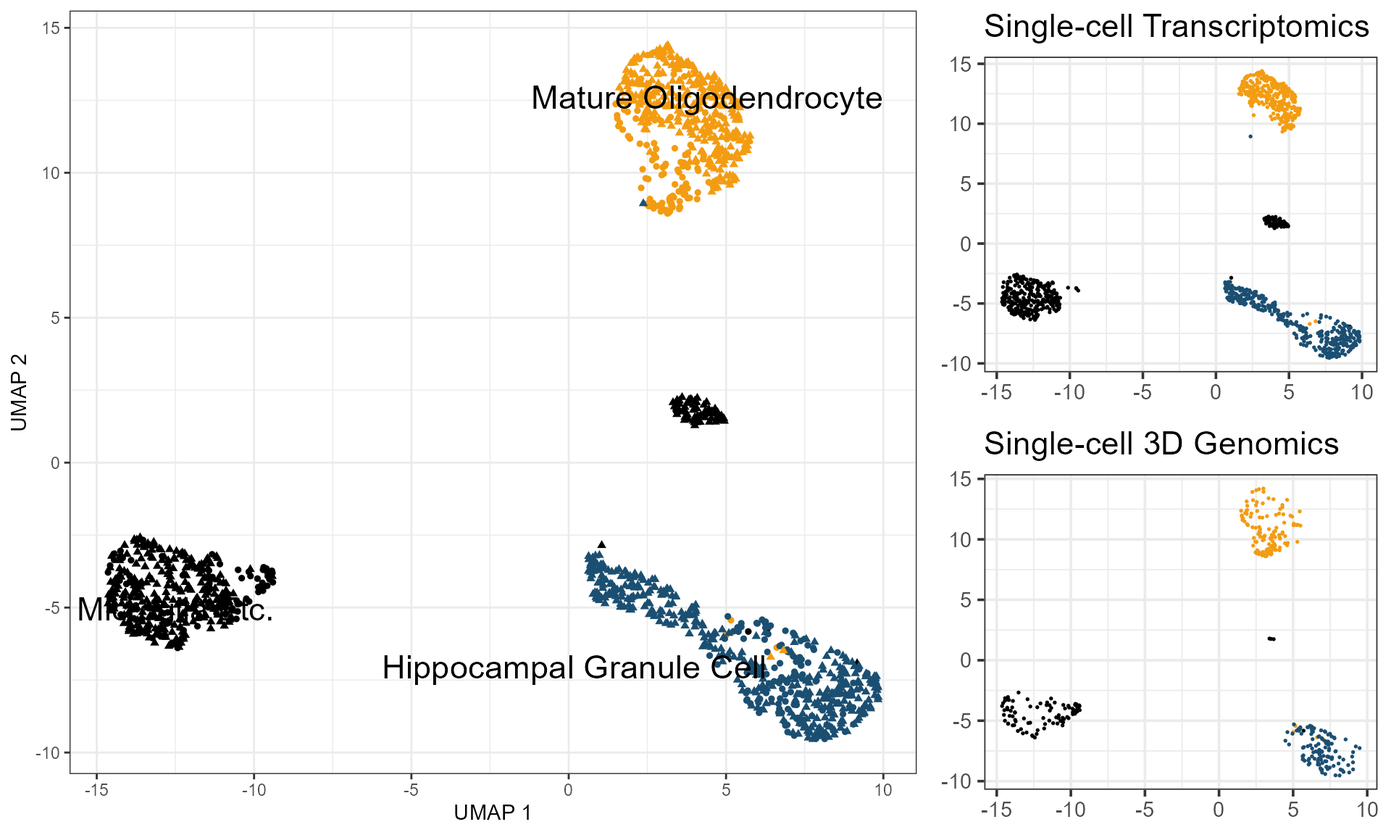
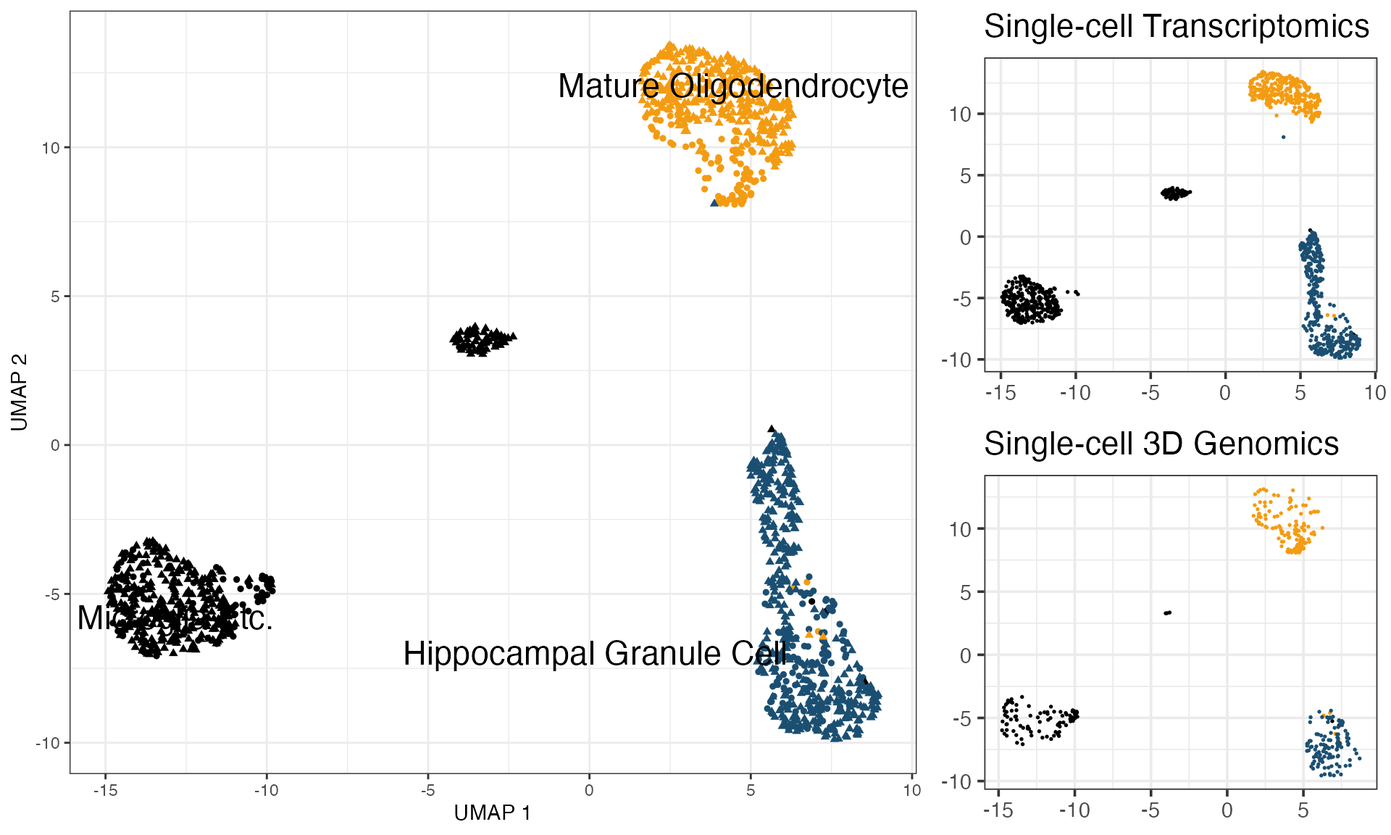
Add files via upload

diff --git a/docs/articles/scGAD_tutorial.html b/docs/articles/scGAD_tutorial.html
@@ -78,7 +78,7 @@
 
       
 
-      </header><script src="scGAD_tutorial_files/header-attrs-2.10/header-attrs.js"></script><div class="row">
+      </header><script src="scGAD_tutorial_files/header-attrs-2.11/header-attrs.js"></script><div class="row">
   <div class="col-md-9 contents">
     <div class="page-header toc-ignore">
       <h1 data-toc-skip>scGAD-tutorial</h1>
@@ -156,9 +156,7 @@ chr1    20000   40000   2       cell_3</code></pre>
 <div class="sourceCode" id="cb3"><pre class="downlit sourceCode r">
 <code class="sourceCode R"><span class="kw"><a href="https://rdrr.io/r/base/library.html">library</a></span><span class="op">(</span><span class="va">BandNorm</span><span class="op">)</span>
 <span class="co">#&gt; Loading required package: ggplot2</span>
-<span class="co">#&gt; Warning: package 'ggplot2' was built under R version 4.0.5</span>
 <span class="co">#&gt; Loading required package: dplyr</span>
-<span class="co">#&gt; Warning: package 'dplyr' was built under R version 4.0.5</span>
 <span class="co">#&gt; </span>
 <span class="co">#&gt; Attaching package: 'dplyr'</span>
 <span class="co">#&gt; The following objects are masked from 'package:stats':</span>
@@ -168,53 +166,36 @@ chr1    20000   40000   2       cell_3</code></pre>
 <span class="co">#&gt; </span>
 <span class="co">#&gt;     intersect, setdiff, setequal, union</span>
 <span class="co">#&gt; Loading required package: data.table</span>
-<span class="co">#&gt; Warning: package 'data.table' was built under R version 4.0.4</span>
 <span class="co">#&gt; </span>
 <span class="co">#&gt; Attaching package: 'data.table'</span>
 <span class="co">#&gt; The following objects are masked from 'package:dplyr':</span>
 <span class="co">#&gt; </span>
 <span class="co">#&gt;     between, first, last</span>
 <span class="co">#&gt; Loading required package: Rtsne</span>
-<span class="co">#&gt; Warning: package 'Rtsne' was built under R version 4.0.3</span>
 <span class="co">#&gt; Loading required package: umap</span>
-<span class="co">#&gt; Warning: package 'umap' was built under R version 4.0.3</span>
 <span class="co">#&gt; Loading required package: progress</span>
-<span class="co">#&gt; Warning: package 'progress' was built under R version 4.0.4</span>
 <span class="co">#&gt; Loading required package: harmony</span>
 <span class="co">#&gt; Loading required package: Rcpp</span>
-<span class="co">#&gt; Warning: package 'Rcpp' was built under R version 4.0.5</span>
 <span class="co">#&gt; Loading required package: Matrix</span>
-<span class="co">#&gt; Warning: package 'Matrix' was built under R version 4.0.5</span>
 <span class="co">#&gt; Loading required package: gmodels</span>
-<span class="co">#&gt; Warning: package 'gmodels' was built under R version 4.0.4</span>
 <span class="co">#&gt; Loading required package: doParallel</span>
-<span class="co">#&gt; Warning: package 'doParallel' was built under R version 4.0.3</span>
 <span class="co">#&gt; Loading required package: foreach</span>
-<span class="co">#&gt; Warning: package 'foreach' was built under R version 4.0.3</span>
 <span class="co">#&gt; Loading required package: iterators</span>
-<span class="co">#&gt; Warning: package 'iterators' was built under R version 4.0.3</span>
 <span class="co">#&gt; Loading required package: parallel</span>
 <span class="co">#&gt; Loading required package: matrixStats</span>
-<span class="co">#&gt; Warning: package 'matrixStats' was built under R version 4.0.3</span>
 <span class="co">#&gt; </span>
 <span class="co">#&gt; Attaching package: 'matrixStats'</span>
 <span class="co">#&gt; The following object is masked from 'package:dplyr':</span>
 <span class="co">#&gt; </span>
 <span class="co">#&gt;     count</span>
 <span class="co">#&gt; Loading required package: Seurat</span>
-<span class="co">#&gt; Warning: package 'Seurat' was built under R version 4.0.5</span>
 <span class="co">#&gt; Attaching SeuratObject</span>
 <span class="co">#&gt; Loading required package: strawr</span>
-<span class="co">#&gt; Warning: package 'strawr' was built under R version 4.0.5</span>
 <span class="co">#&gt; Loading required package: rmarkdown</span>
-<span class="co">#&gt; Warning: package 'rmarkdown' was built under R version 4.0.5</span>
 <span class="co">#&gt; Loading required package: viridis</span>
-<span class="co">#&gt; Warning: package 'viridis' was built under R version 4.0.5</span>
 <span class="co">#&gt; Loading required package: viridisLite</span>
-<span class="co">#&gt; Warning: package 'viridisLite' was built under R version 4.0.5</span>
 <span class="kw"><a href="https://rdrr.io/r/base/library.html">library</a></span><span class="op">(</span><span class="va"><a href="https://github.com/jeroen/curl">curl</a></span><span class="op">)</span>
-<span class="co">#&gt; Warning: package 'curl' was built under R version 4.0.5</span>
-<span class="co">#&gt; Using libcurl 7.64.1 with Schannel</span>
+<span class="co">#&gt; Using libcurl 7.77.0 with LibreSSL/2.8.3</span>
 <span class="va">h</span> <span class="op">=</span> <span class="fu"><a href="https://rdrr.io/pkg/curl/man/handle.html">new_handle</a></span><span class="op">(</span>dirlistonly<span class="op">=</span><span class="cn">TRUE</span><span class="op">)</span>
 <span class="va">con</span> <span class="op">=</span> <span class="fu"><a href="https://rdrr.io/pkg/curl/man/curl.html">curl</a></span><span class="op">(</span><span class="st">"http://ftp.cs.wisc.edu/pub/users/kelesgroup/siqi/scGAD/scGADExample.rda"</span>, <span class="st">"r"</span>, <span class="va">h</span><span class="op">)</span>
 <span class="fu"><a href="https://rdrr.io/r/base/load.html">load</a></span><span class="op">(</span><span class="va">con</span><span class="op">)</span>
@@ -238,22 +219,23 @@ Rgs20   -0.14     -1.25     0.16   ... ...</code></pre>
 <div id="visualizion-of-the-lower-dimensional-representations-of-scgad-scores" class="section level3">
 <h3 class="hasAnchor">
 <a href="#visualizion-of-the-lower-dimensional-representations-of-scgad-scores" class="anchor"></a>1.5 Visualizion of the lower-dimensional representations of scGAD scores</h3>
-<p>Cell types separation can be visualized using PCA or t-SNE or UMAP. Showing below is the PCA dimension reduction of scGAD scores, and the first two principal components can nicely separate the three major cell types.</p>
+<p>Cell types separation can be visualized using PCA or t-SNE or UMAP. Showing below is the PCA dimension reduction of scGAD scores, and we input the first three principal components into UMAP, and UMAP plot can clearly separate the three cell types. (Note that in this situation, the cell types are very distinct, so we can only use three PCs. In reality, normally we should use a lot more PCs, for example fifteen to thirty.)</p>
 <div class="sourceCode" id="cb6"><pre class="downlit sourceCode r">
 <code class="sourceCode R"><span class="kw"><a href="https://rdrr.io/r/base/library.html">library</a></span><span class="op">(</span><span class="va"><a href="https://ggplot2.tidyverse.org">ggplot2</a></span><span class="op">)</span>
-
+<span class="kw"><a href="https://rdrr.io/r/base/library.html">library</a></span><span class="op">(</span><span class="va"><a href="https://github.com/tkonopka/umap">umap</a></span><span class="op">)</span>
 <span class="va">summary</span> <span class="op">=</span> <span class="va">summary</span><span class="op">[</span><span class="fu"><a href="https://rdrr.io/r/base/match.html">match</a></span><span class="op">(</span><span class="fu"><a href="https://rdrr.io/r/base/colnames.html">colnames</a></span><span class="op">(</span><span class="va">gad_score</span><span class="op">)</span>, <span class="va">summary</span><span class="op">$</span><span class="va">cell</span><span class="op">)</span>, <span class="op">]</span>
-<span class="va">gadPCA</span> <span class="op">=</span> <span class="fu"><a href="https://rdrr.io/r/stats/prcomp.html">prcomp</a></span><span class="op">(</span><span class="va">gad_score</span><span class="op">)</span><span class="op">$</span><span class="va">rotation</span><span class="op">[</span>, <span class="fl">1</span><span class="op">:</span><span class="fl">15</span><span class="op">]</span>
-<span class="va">gadPCA</span> <span class="op">=</span> <span class="fu"><a href="https://rdrr.io/r/base/data.frame.html">data.frame</a></span><span class="op">(</span><span class="va">gadPCA</span>, cellTypes <span class="op">=</span> <span class="va">summary</span><span class="op">$</span><span class="va">`cell-type cluster`</span><span class="op">)</span>
-
-<span class="fu"><a href="https://ggplot2.tidyverse.org/reference/ggplot.html">ggplot</a></span><span class="op">(</span><span class="va">gadPCA</span>, <span class="fu"><a href="https://ggplot2.tidyverse.org/reference/aes.html">aes</a></span><span class="op">(</span>x <span class="op">=</span> <span class="va">PC1</span>, y <span class="op">=</span> <span class="va">PC2</span>, col <span class="op">=</span> <span class="va">cellTypes</span><span class="op">)</span><span class="op">)</span> <span class="op">+</span> 
+<span class="va">gadPCA</span> <span class="op">=</span> <span class="fu"><a href="https://rdrr.io/r/stats/prcomp.html">prcomp</a></span><span class="op">(</span><span class="va">gad_score</span><span class="op">)</span><span class="op">$</span><span class="va">rotation</span><span class="op">[</span>, <span class="fl">1</span><span class="op">:</span><span class="fl">3</span><span class="op">]</span>
+<span class="va">gadUMAP</span> <span class="op">=</span> <span class="fu"><a href="https://rdrr.io/pkg/umap/man/umap.html">umap</a></span><span class="op">(</span><span class="va">gadPCA</span><span class="op">)</span>
+<span class="va">gadUMAP</span> <span class="op">=</span> <span class="fu"><a href="https://rdrr.io/r/base/data.frame.html">data.frame</a></span><span class="op">(</span><span class="va">gadUMAP</span><span class="op">$</span><span class="va">layout</span>, cellTypes <span class="op">=</span> <span class="va">summary</span><span class="op">$</span><span class="va">`cell-type cluster`</span><span class="op">)</span>
+<span class="fu"><a href="https://rdrr.io/r/base/colnames.html">colnames</a></span><span class="op">(</span><span class="va">gadUMAP</span><span class="op">)</span> <span class="op">=</span> <span class="fu"><a href="https://rdrr.io/r/base/c.html">c</a></span><span class="op">(</span><span class="st">"UMAP1"</span>, <span class="st">"UMAP2"</span>, <span class="st">"cellTypes"</span><span class="op">)</span>
+<span class="fu"><a href="https://ggplot2.tidyverse.org/reference/ggplot.html">ggplot</a></span><span class="op">(</span><span class="va">gadUMAP</span>, <span class="fu"><a href="https://ggplot2.tidyverse.org/reference/aes.html">aes</a></span><span class="op">(</span>x <span class="op">=</span> <span class="va">UMAP1</span>, y <span class="op">=</span> <span class="va">UMAP2</span>, col <span class="op">=</span> <span class="va">cellTypes</span><span class="op">)</span><span class="op">)</span> <span class="op">+</span> 
     <span class="fu"><a href="https://ggplot2.tidyverse.org/reference/geom_point.html">geom_point</a></span><span class="op">(</span><span class="op">)</span> <span class="op">+</span> 
     <span class="fu"><a href="https://ggplot2.tidyverse.org/reference/ggtheme.html">theme_bw</a></span><span class="op">(</span>base_size <span class="op">=</span> <span class="fl">18</span><span class="op">)</span> <span class="op">+</span> 
     <span class="fu"><a href="https://ggplot2.tidyverse.org/reference/scale_manual.html">scale_color_manual</a></span><span class="op">(</span>
         breaks <span class="op">=</span> <span class="fu"><a href="https://rdrr.io/r/base/c.html">c</a></span><span class="op">(</span><span class="st">"Hippocampal Granule Cell"</span>, <span class="st">"Mature Oligodendrocyte"</span>, <span class="st">"Microglia Etc."</span><span class="op">)</span>,
         values <span class="op">=</span> <span class="fu"><a href="https://rdrr.io/r/base/c.html">c</a></span><span class="op">(</span><span class="st">"#1B4F72"</span>, <span class="st">"#F39C12"</span>, <span class="st">"#000000"</span><span class="op">)</span>
     <span class="op">)</span></code></pre></div>
-<p><img src="scGAD_tutorial_files/figure-html/PCA%20Result-1.png" width="960"></p>
+<p><img src="scGAD_tutorial_files/figure-html/UMAP%20Result-1.png" width="960"></p>
 </div>
 </div>
 <div id="projection-of-scgad-on-scrna-seq" class="section level2">
@@ -298,20 +280,20 @@ Rgs20   -0.14     -1.25     0.16   ... ...</code></pre>
 <span class="co">#&gt; Warning: The default method for RunUMAP has changed from calling Python UMAP via reticulate to the R-native UWOT using the cosine metric</span>
 <span class="co">#&gt; To use Python UMAP via reticulate, set umap.method to 'umap-learn' and metric to 'correlation'</span>
 <span class="co">#&gt; This message will be shown once per session</span>
-<span class="co">#&gt; 22:46:05 UMAP embedding parameters a = 0.9922 b = 1.112</span>
-<span class="co">#&gt; 22:46:05 Read 1426 rows and found 5 numeric columns</span>
-<span class="co">#&gt; 22:46:05 Using Annoy for neighbor search, n_neighbors = 30</span>
-<span class="co">#&gt; 22:46:05 Building Annoy index with metric = cosine, n_trees = 50</span>
+<span class="co">#&gt; 12:40:29 UMAP embedding parameters a = 0.9922 b = 1.112</span>
+<span class="co">#&gt; 12:40:29 Read 1426 rows and found 5 numeric columns</span>
+<span class="co">#&gt; 12:40:29 Using Annoy for neighbor search, n_neighbors = 30</span>
+<span class="co">#&gt; 12:40:29 Building Annoy index with metric = cosine, n_trees = 50</span>
 <span class="co">#&gt; 0%   10   20   30   40   50   60   70   80   90   100%</span>
 <span class="co">#&gt; [----|----|----|----|----|----|----|----|----|----|</span>
 <span class="co">#&gt; **************************************************|</span>
-<span class="co">#&gt; 22:46:05 Writing NN index file to temp file C:\Users\solei\AppData\Local\Temp\Rtmpec20iS\file5ef827132451</span>
-<span class="co">#&gt; 22:46:05 Searching Annoy index using 1 thread, search_k = 3000</span>
-<span class="co">#&gt; 22:46:05 Annoy recall = 100%</span>
-<span class="co">#&gt; 22:46:05 Commencing smooth kNN distance calibration using 1 thread</span>
-<span class="co">#&gt; 22:46:06 Initializing from normalized Laplacian + noise</span>
-<span class="co">#&gt; 22:46:06 Commencing optimization for 500 epochs, with 55332 positive edges</span>
-<span class="co">#&gt; 22:46:09 Optimization finished</span>
+<span class="co">#&gt; 12:40:29 Writing NN index file to temp file /var/folders/wp/4jsj4cj11lz0v3352z68hj8r0000gn/T//RtmpabTMYP/filee8828d46c01</span>
+<span class="co">#&gt; 12:40:29 Searching Annoy index using 1 thread, search_k = 3000</span>
+<span class="co">#&gt; 12:40:30 Annoy recall = 100%</span>
+<span class="co">#&gt; 12:40:30 Commencing smooth kNN distance calibration using 1 thread</span>
+<span class="co">#&gt; 12:40:31 Initializing from normalized Laplacian + noise</span>
+<span class="co">#&gt; 12:40:31 Commencing optimization for 500 epochs, with 55332 positive edges</span>
+<span class="co">#&gt; 12:40:33 Optimization finished</span>
 
 <span class="va">p_celltype</span> <span class="op">=</span> <span class="fu"><a href="https://satijalab.org/seurat/reference/DimPlot.html">DimPlot</a></span><span class="op">(</span><span class="va">combinedAssay</span>, reduction <span class="op">=</span> <span class="st">"umap"</span>, label <span class="op">=</span> <span class="cn">TRUE</span>, repel <span class="op">=</span> <span class="cn">TRUE</span>, 
                     pt.size <span class="op">=</span> <span class="fl">1.3</span>, shape.by <span class="op">=</span> <span class="st">"method"</span>, label.size <span class="op">=</span> <span class="fl">6</span><span class="op">)</span> <span class="op">+</span>
@@ -323,10 +305,10 @@ Rgs20   -0.14     -1.25     0.16   ... ...</code></pre>
     <span class="op">)</span> <span class="op">+</span> <span class="fu"><a href="https://ggplot2.tidyverse.org/reference/theme.html">theme</a></span><span class="op">(</span>legend.position <span class="op">=</span> <span class="st">"none"</span><span class="op">)</span>
 
 
-<span class="va">pRNA</span> <span class="op">=</span> <span class="va">combinedAssay</span><span class="op">@</span><span class="va">reductions</span><span class="op">$</span><span class="va">umap</span><span class="op">@</span><span class="va">cell.embeddings</span> <span class="op">%&gt;%</span> 
-    <span class="va">data.frame</span> <span class="op">%&gt;%</span> 
-    <span class="fu"><a href="https://dplyr.tidyverse.org/reference/mutate.html">mutate</a></span><span class="op">(</span>celltype <span class="op">=</span> <span class="fu"><a href="https://rdrr.io/r/base/c.html">c</a></span><span class="op">(</span><span class="va">cellTypeList</span><span class="op">[[</span><span class="fl">1</span><span class="op">]</span><span class="op">]</span>, <span class="va">cellTypeList</span><span class="op">[[</span><span class="fl">2</span><span class="op">]</span><span class="op">]</span><span class="op">)</span>, label <span class="op">=</span> <span class="fu"><a href="https://rdrr.io/r/base/c.html">c</a></span><span class="op">(</span><span class="fu"><a href="https://rdrr.io/r/base/rep.html">rep</a></span><span class="op">(</span><span class="st">"scGAD"</span>, <span class="fu"><a href="https://rdrr.io/r/base/length.html">length</a></span><span class="op">(</span><span class="va">cellTypeList</span><span class="op">[[</span><span class="fl">1</span><span class="op">]</span><span class="op">]</span><span class="op">)</span><span class="op">)</span>, <span class="fu"><a href="https://rdrr.io/r/base/rep.html">rep</a></span><span class="op">(</span><span class="st">"scRNA-seq"</span>, <span class="fu"><a href="https://rdrr.io/r/base/length.html">length</a></span><span class="op">(</span><span class="va">cellTypeList</span><span class="op">[[</span><span class="fl">2</span><span class="op">]</span><span class="op">]</span><span class="op">)</span><span class="op">)</span><span class="op">)</span><span class="op">)</span> <span class="op">%&gt;%</span>
-    <span class="fu"><a href="https://dplyr.tidyverse.org/reference/filter.html">filter</a></span><span class="op">(</span><span class="va">label</span> <span class="op">==</span> <span class="st">"scRNA-seq"</span><span class="op">)</span> <span class="op">%&gt;%</span>
+<span class="va">pRNA</span> <span class="op">=</span> <span class="va">combinedAssay</span><span class="op">@</span><span class="va">reductions</span><span class="op">$</span><span class="va">umap</span><span class="op">@</span><span class="va">cell.embeddings</span> <span class="op"><a href="https://magrittr.tidyverse.org/reference/pipe.html">%&gt;%</a></span> 
+    <span class="va">data.frame</span> <span class="op"><a href="https://magrittr.tidyverse.org/reference/pipe.html">%&gt;%</a></span> 
+    <span class="fu"><a href="https://dplyr.tidyverse.org/reference/mutate.html">mutate</a></span><span class="op">(</span>celltype <span class="op">=</span> <span class="fu"><a href="https://rdrr.io/r/base/c.html">c</a></span><span class="op">(</span><span class="va">cellTypeList</span><span class="op">[[</span><span class="fl">1</span><span class="op">]</span><span class="op">]</span>, <span class="va">cellTypeList</span><span class="op">[[</span><span class="fl">2</span><span class="op">]</span><span class="op">]</span><span class="op">)</span>, label <span class="op">=</span> <span class="fu"><a href="https://rdrr.io/r/base/c.html">c</a></span><span class="op">(</span><span class="fu"><a href="https://rdrr.io/r/base/rep.html">rep</a></span><span class="op">(</span><span class="st">"scGAD"</span>, <span class="fu"><a href="https://rdrr.io/r/base/length.html">length</a></span><span class="op">(</span><span class="va">cellTypeList</span><span class="op">[[</span><span class="fl">1</span><span class="op">]</span><span class="op">]</span><span class="op">)</span><span class="op">)</span>, <span class="fu"><a href="https://rdrr.io/r/base/rep.html">rep</a></span><span class="op">(</span><span class="st">"scRNA-seq"</span>, <span class="fu"><a href="https://rdrr.io/r/base/length.html">length</a></span><span class="op">(</span><span class="va">cellTypeList</span><span class="op">[[</span><span class="fl">2</span><span class="op">]</span><span class="op">]</span><span class="op">)</span><span class="op">)</span><span class="op">)</span><span class="op">)</span> <span class="op"><a href="https://magrittr.tidyverse.org/reference/pipe.html">%&gt;%</a></span>
+    <span class="fu"><a href="https://dplyr.tidyverse.org/reference/filter.html">filter</a></span><span class="op">(</span><span class="va">label</span> <span class="op">==</span> <span class="st">"scRNA-seq"</span><span class="op">)</span> <span class="op"><a href="https://magrittr.tidyverse.org/reference/pipe.html">%&gt;%</a></span>
     <span class="fu"><a href="https://ggplot2.tidyverse.org/reference/ggplot.html">ggplot</a></span><span class="op">(</span><span class="fu"><a href="https://ggplot2.tidyverse.org/reference/aes.html">aes</a></span><span class="op">(</span>x <span class="op">=</span> <span class="va">UMAP_1</span>, y <span class="op">=</span> <span class="va">UMAP_2</span>, color <span class="op">=</span> <span class="va">celltype</span><span class="op">)</span><span class="op">)</span> <span class="op">+</span>
         <span class="fu"><a href="https://ggplot2.tidyverse.org/reference/geom_point.html">geom_point</a></span><span class="op">(</span>size <span class="op">=</span> <span class="fl">0.3</span><span class="op">)</span> <span class="op">+</span>
         <span class="fu"><a href="https://ggplot2.tidyverse.org/reference/ggtheme.html">theme_bw</a></span><span class="op">(</span>base_size <span class="op">=</span> <span class="fl">14</span><span class="op">)</span> <span class="op">+</span>
@@ -340,10 +322,10 @@ Rgs20   -0.14     -1.25     0.16   ... ...</code></pre>
         <span class="fu"><a href="https://ggplot2.tidyverse.org/reference/labs.html">ggtitle</a></span><span class="op">(</span><span class="st">"Single-cell Transcriptomics"</span><span class="op">)</span>
 
 
-<span class="va">pGAD</span> <span class="op">=</span> <span class="va">combinedAssay</span><span class="op">@</span><span class="va">reductions</span><span class="op">$</span><span class="va">umap</span><span class="op">@</span><span class="va">cell.embeddings</span> <span class="op">%&gt;%</span> 
-    <span class="va">data.frame</span> <span class="op">%&gt;%</span> 
-    <span class="fu"><a href="https://dplyr.tidyverse.org/reference/mutate.html">mutate</a></span><span class="op">(</span>celltype <span class="op">=</span> <span class="fu"><a href="https://rdrr.io/r/base/c.html">c</a></span><span class="op">(</span><span class="va">cellTypeList</span><span class="op">[[</span><span class="fl">1</span><span class="op">]</span><span class="op">]</span>, <span class="va">cellTypeList</span><span class="op">[[</span><span class="fl">2</span><span class="op">]</span><span class="op">]</span><span class="op">)</span>, label <span class="op">=</span> <span class="fu"><a href="https://rdrr.io/r/base/c.html">c</a></span><span class="op">(</span><span class="fu"><a href="https://rdrr.io/r/base/rep.html">rep</a></span><span class="op">(</span><span class="st">"scGAD"</span>, <span class="fu"><a href="https://rdrr.io/r/base/length.html">length</a></span><span class="op">(</span><span class="va">cellTypeList</span><span class="op">[[</span><span class="fl">1</span><span class="op">]</span><span class="op">]</span><span class="op">)</span><span class="op">)</span>, <span class="fu"><a href="https://rdrr.io/r/base/rep.html">rep</a></span><span class="op">(</span><span class="st">"scRNA-seq"</span>, <span class="fu"><a href="https://rdrr.io/r/base/length.html">length</a></span><span class="op">(</span><span class="va">cellTypeList</span><span class="op">[[</span><span class="fl">2</span><span class="op">]</span><span class="op">]</span><span class="op">)</span><span class="op">)</span><span class="op">)</span><span class="op">)</span> <span class="op">%&gt;%</span>
-    <span class="fu"><a href="https://dplyr.tidyverse.org/reference/filter.html">filter</a></span><span class="op">(</span><span class="va">label</span> <span class="op">==</span> <span class="st">"scGAD"</span><span class="op">)</span> <span class="op">%&gt;%</span>
+<span class="va">pGAD</span> <span class="op">=</span> <span class="va">combinedAssay</span><span class="op">@</span><span class="va">reductions</span><span class="op">$</span><span class="va">umap</span><span class="op">@</span><span class="va">cell.embeddings</span> <span class="op"><a href="https://magrittr.tidyverse.org/reference/pipe.html">%&gt;%</a></span> 
+    <span class="va">data.frame</span> <span class="op"><a href="https://magrittr.tidyverse.org/reference/pipe.html">%&gt;%</a></span> 
+    <span class="fu"><a href="https://dplyr.tidyverse.org/reference/mutate.html">mutate</a></span><span class="op">(</span>celltype <span class="op">=</span> <span class="fu"><a href="https://rdrr.io/r/base/c.html">c</a></span><span class="op">(</span><span class="va">cellTypeList</span><span class="op">[[</span><span class="fl">1</span><span class="op">]</span><span class="op">]</span>, <span class="va">cellTypeList</span><span class="op">[[</span><span class="fl">2</span><span class="op">]</span><span class="op">]</span><span class="op">)</span>, label <span class="op">=</span> <span class="fu"><a href="https://rdrr.io/r/base/c.html">c</a></span><span class="op">(</span><span class="fu"><a href="https://rdrr.io/r/base/rep.html">rep</a></span><span class="op">(</span><span class="st">"scGAD"</span>, <span class="fu"><a href="https://rdrr.io/r/base/length.html">length</a></span><span class="op">(</span><span class="va">cellTypeList</span><span class="op">[[</span><span class="fl">1</span><span class="op">]</span><span class="op">]</span><span class="op">)</span><span class="op">)</span>, <span class="fu"><a href="https://rdrr.io/r/base/rep.html">rep</a></span><span class="op">(</span><span class="st">"scRNA-seq"</span>, <span class="fu"><a href="https://rdrr.io/r/base/length.html">length</a></span><span class="op">(</span><span class="va">cellTypeList</span><span class="op">[[</span><span class="fl">2</span><span class="op">]</span><span class="op">]</span><span class="op">)</span><span class="op">)</span><span class="op">)</span><span class="op">)</span> <span class="op"><a href="https://magrittr.tidyverse.org/reference/pipe.html">%&gt;%</a></span>
+    <span class="fu"><a href="https://dplyr.tidyverse.org/reference/filter.html">filter</a></span><span class="op">(</span><span class="va">label</span> <span class="op">==</span> <span class="st">"scGAD"</span><span class="op">)</span> <span class="op"><a href="https://magrittr.tidyverse.org/reference/pipe.html">%&gt;%</a></span>
     <span class="fu"><a href="https://ggplot2.tidyverse.org/reference/ggplot.html">ggplot</a></span><span class="op">(</span><span class="fu"><a href="https://ggplot2.tidyverse.org/reference/aes.html">aes</a></span><span class="op">(</span>x <span class="op">=</span> <span class="va">UMAP_1</span>, y <span class="op">=</span> <span class="va">UMAP_2</span>, color <span class="op">=</span> <span class="va">celltype</span><span class="op">)</span><span class="op">)</span> <span class="op">+</span>
     <span class="fu"><a href="https://ggplot2.tidyverse.org/reference/geom_point.html">geom_point</a></span><span class="op">(</span>size <span class="op">=</span> <span class="fl">0.3</span><span class="op">)</span> <span class="op">+</span>
     <span class="fu"><a href="https://ggplot2.tidyverse.org/reference/ggtheme.html">theme_bw</a></span><span class="op">(</span>base_size <span class="op">=</span> <span class="fl">14</span><span class="op">)</span> <span class="op">+</span>
@@ -357,7 +339,7 @@ Rgs20   -0.14     -1.25     0.16   ... ...</code></pre>
     <span class="fu"><a href="https://ggplot2.tidyverse.org/reference/labs.html">ggtitle</a></span><span class="op">(</span><span class="st">"Single-cell 3D Genomics"</span><span class="op">)</span>
 
 
-<span class="va">lay</span> <span class="op">=</span> <span class="fu"><a href="https://rdrr.io/r/base/cbind.html">rbind</a></span><span class="op">(</span><span class="fu"><a href="https://rdrr.io/r/base/c.html">c</a></span><span class="op">(</span><span class="fl">1</span>, <span class="fl">1</span>, <span class="fl">2</span><span class="op">)</span><span class="op">)</span>
+<span class="va">lay</span> <span class="op">=</span> <span class="fu"><a href="https://Rdatatable.gitlab.io/data.table/reference/rbindlist.html">rbind</a></span><span class="op">(</span><span class="fu"><a href="https://rdrr.io/r/base/c.html">c</a></span><span class="op">(</span><span class="fl">1</span>, <span class="fl">1</span>, <span class="fl">2</span><span class="op">)</span><span class="op">)</span>
 <span class="fu"><a href="https://rdrr.io/pkg/gridExtra/man/arrangeGrob.html">grid.arrange</a></span><span class="op">(</span><span class="va">p_celltype</span>, <span class="fu"><a href="https://rdrr.io/pkg/gridExtra/man/arrangeGrob.html">arrangeGrob</a></span><span class="op">(</span><span class="va">pRNA</span>, <span class="va">pGAD</span>, ncol <span class="op">=</span> <span class="fl">1</span>, nrow <span class="op">=</span> <span class="fl">2</span><span class="op">)</span>, layout_matrix <span class="op">=</span> <span class="va">lay</span><span class="op">)</span></code></pre></div>
 <p><img src="scGAD_tutorial_files/figure-html/Projection-1.png" width="960"></p>
 </div>

diff --git a/docs/articles/scGAD_tutorial_files/header-attrs-2.11/header-attrs.js b/docs/articles/scGAD_tutorial_files/header-attrs-2.11/header-attrs.js
@@ -1,0 +1,12 @@
+// Pandoc 2.9 adds attributes on both header and div. We remove the former (to
+// be compatible with the behavior of Pandoc < 2.8).
+document.addEventListener('DOMContentLoaded', function(e) {
+  var hs = document.querySelectorAll("div.section[class*='level'] > :first-child");
+  var i, h, a;
+  for (i = 0; i < hs.length; i++) {
+    h = hs[i];
+    if (!/^h[1-6]$/i.test(h.tagName)) continue;  // it should be a header h1-h6
+    a = h.attributes;
+    while (a.length > 0) h.removeAttribute(a[0].name);
+  }
+});
